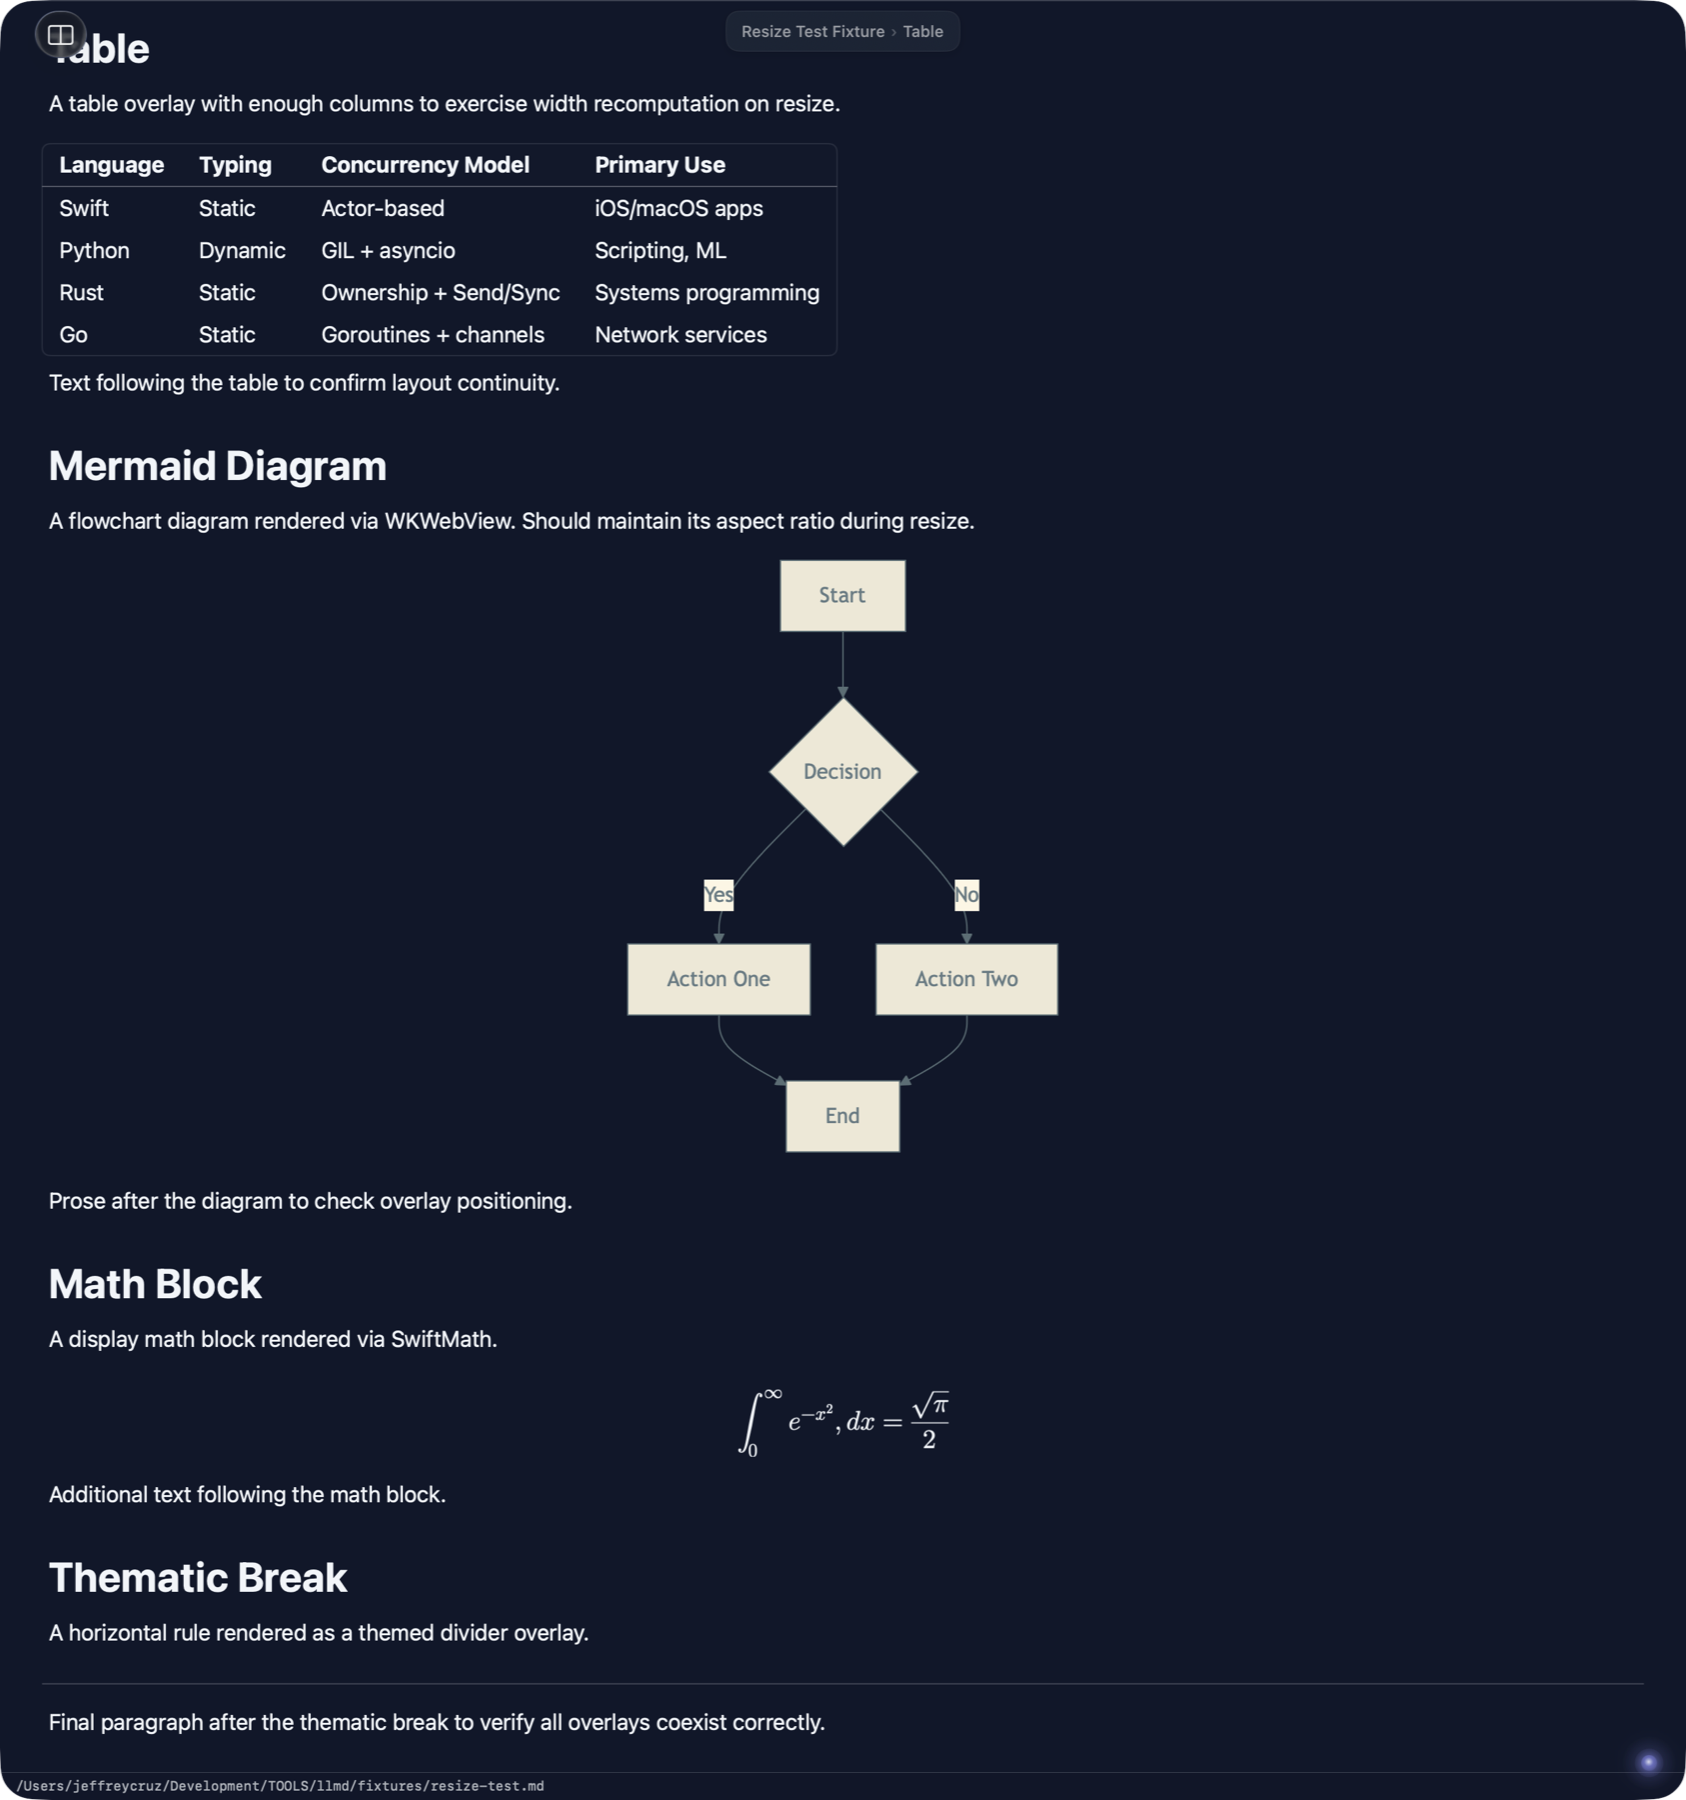
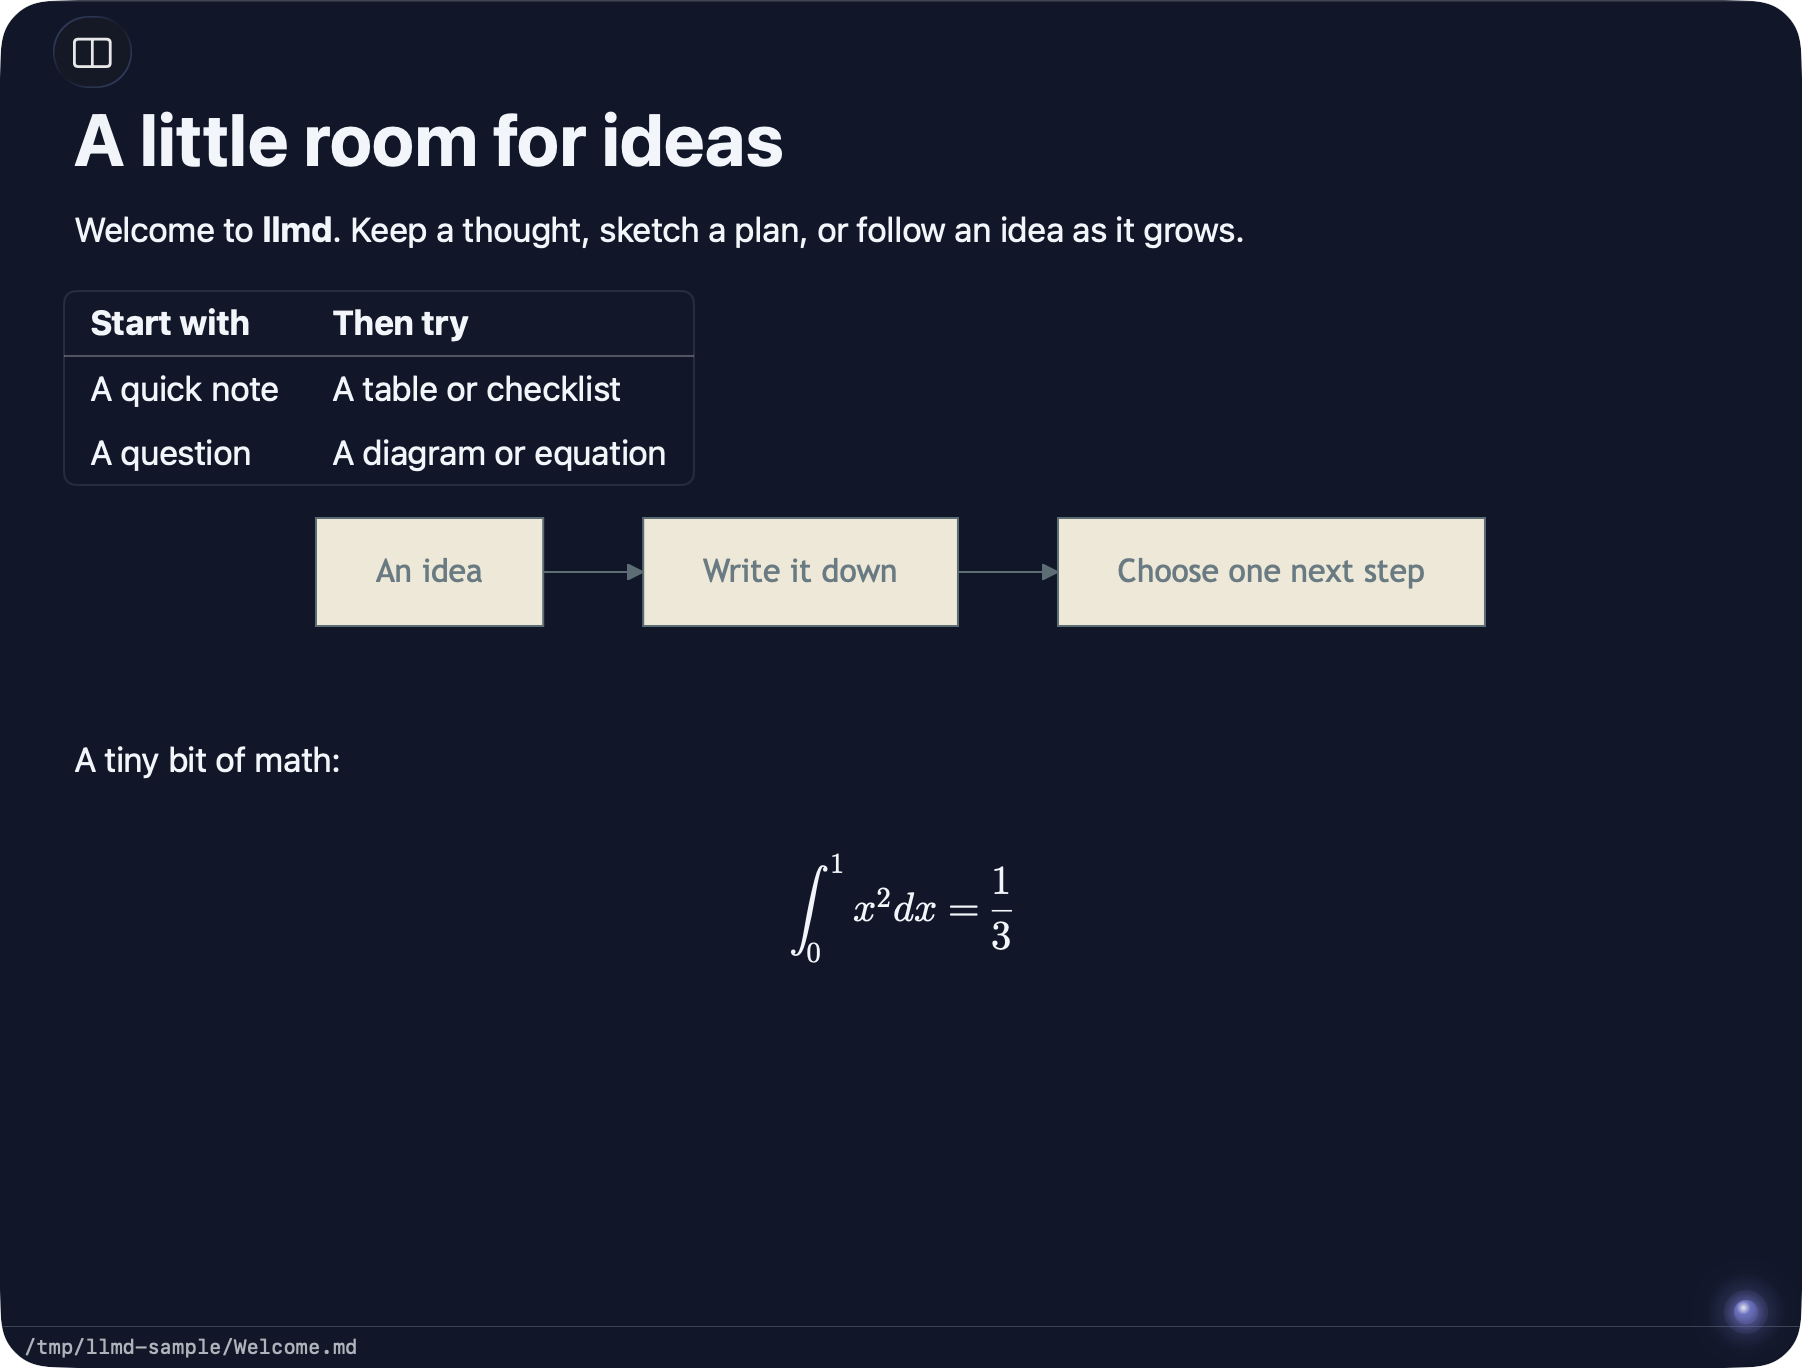
docs: [#4202] retake welcoming screenshot

diff --git a/README.md b/README.md
@@ -2,7 +2,7 @@
 
 ![llmd displaying a Mermaid diagram and rendered math](images/llmd-0.1.2.png)
 
-*Screenshot of the signed and notarized 0.1.2 release displaying the Mermaid and math sections of `fixtures/resize-test.md`.*
+*Screenshot of the signed and notarized 0.1.2 release rendering a short welcome note with a table, Mermaid flowchart, and math.*
 
 `llmd` is a native macOS Markdown viewer and editor. It opens Markdown files or
 folders, renders Mermaid diagrams and math, and can also edit documents. The
